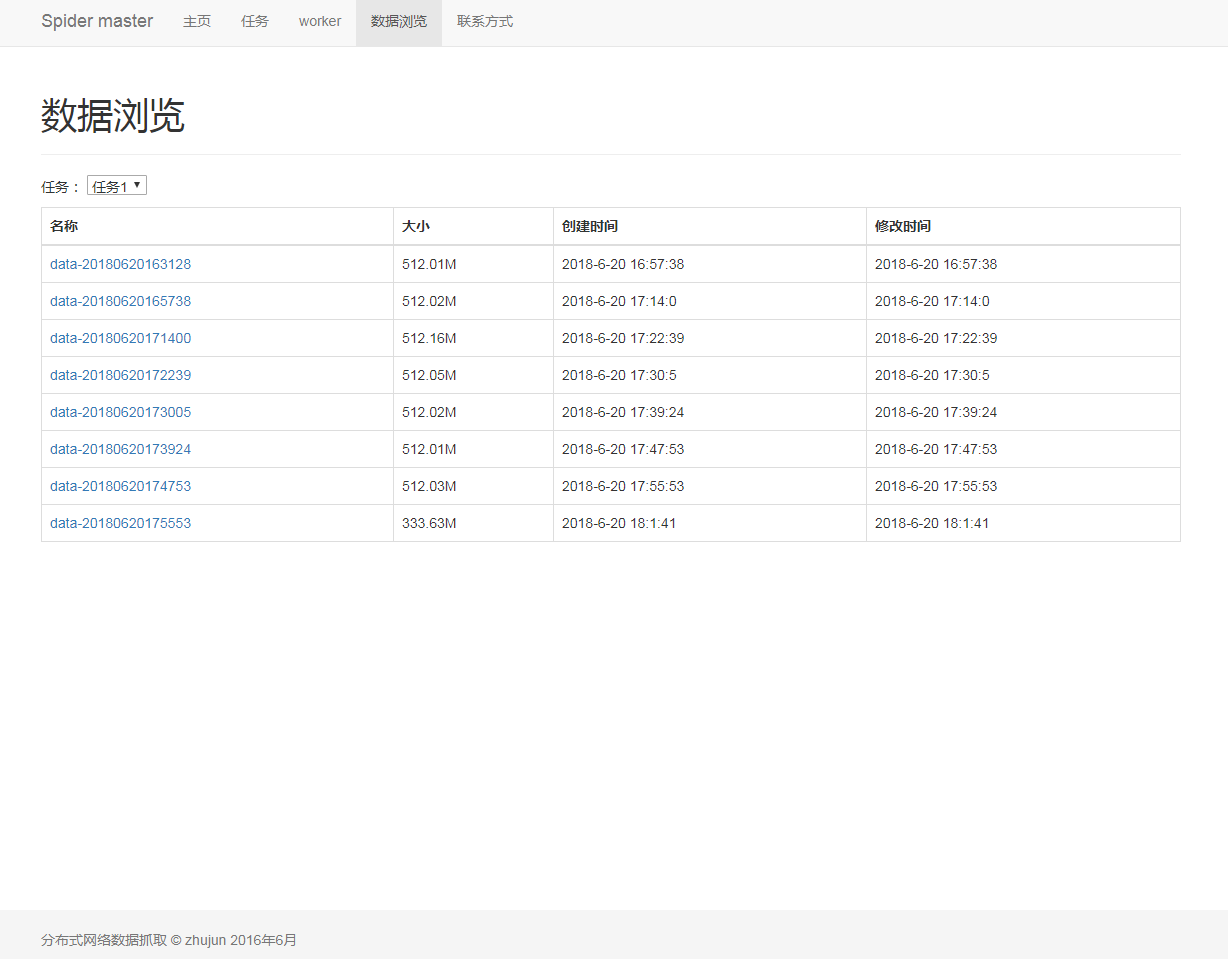
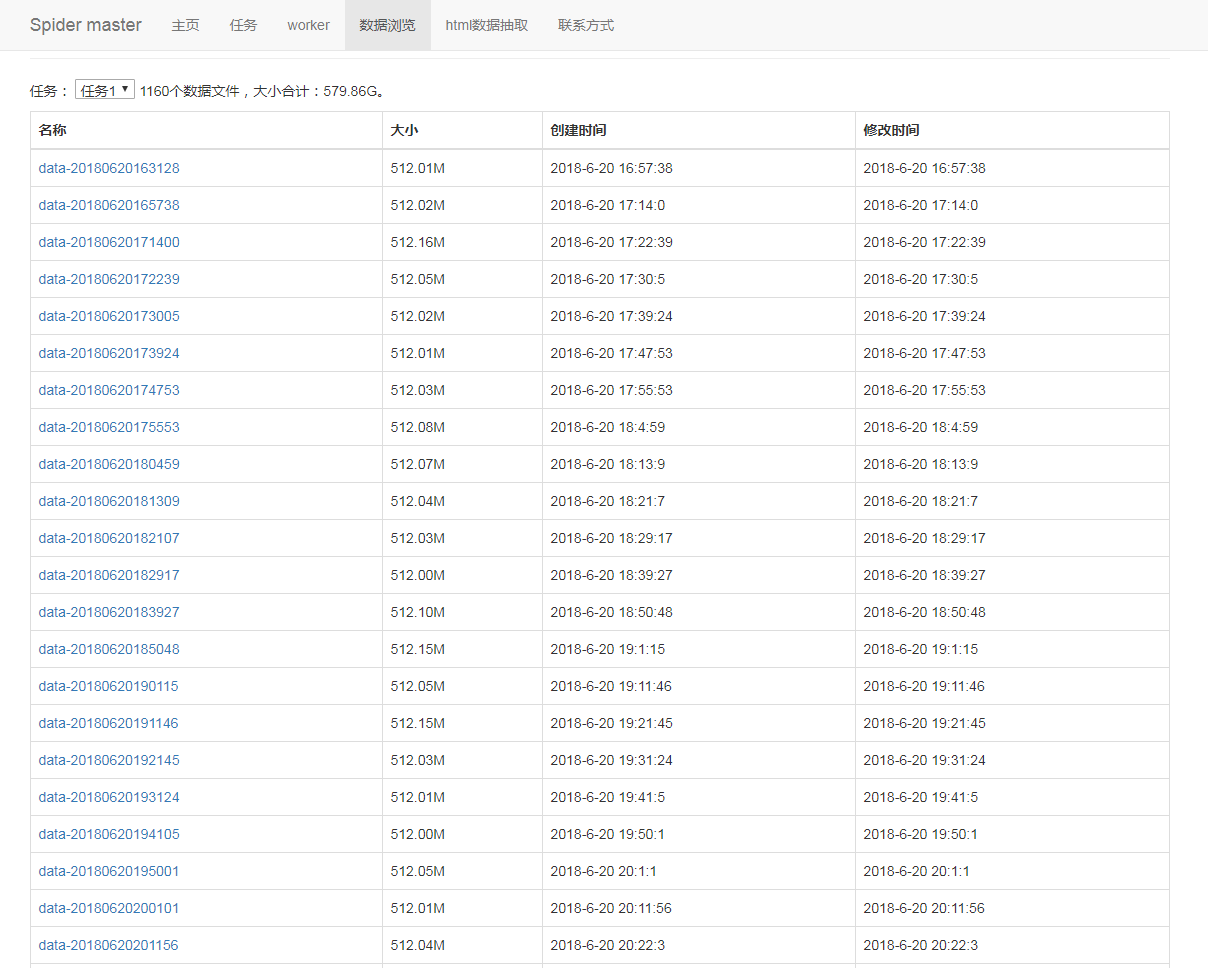
替换截图

diff --git a/README.md b/README.md
@@ -36,11 +36,11 @@ spider主要包括：任务、worker、数据 模块。
 ![image](doc/image/spider_task.png)
 
 ### worker模块
-![image](doc/image/spider_worker.png)
+![image](doc/image/spider_worker_speed.png)
 
 ### data模块
 数据文件列表
-![image](doc/image/spider_data_2.png)
+![image](doc/image/spider_data.png)
 
 数据文件中的数据列表
 ![image](doc/image/spider_data_3.png)
